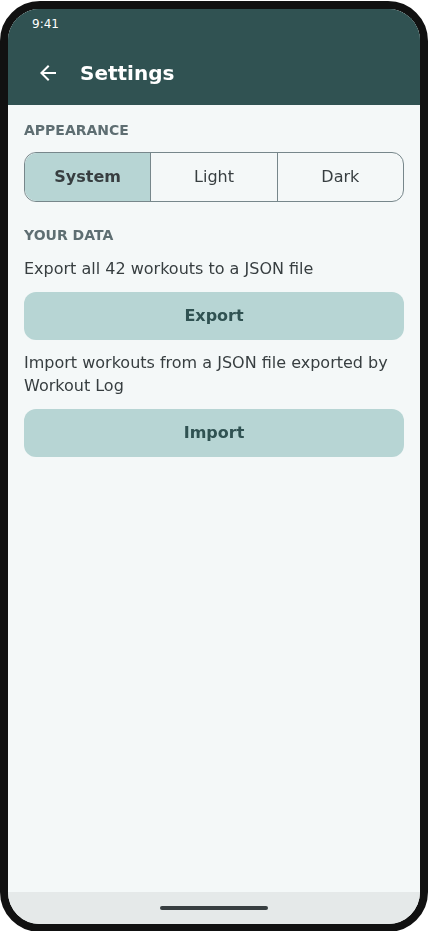
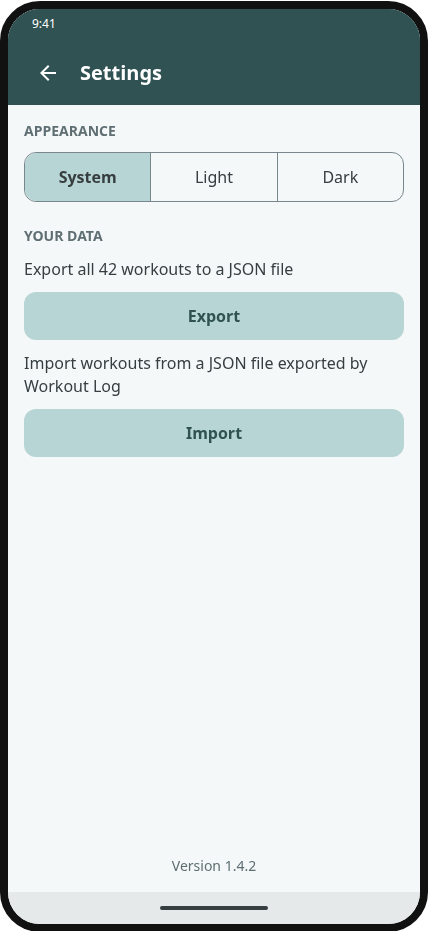
feat(settings): show the app version

diff --git a/src/WorkoutLog.UI/Screens/SettingsView.razor.css b/src/WorkoutLog.UI/Screens/SettingsView.razor.css
@@ -32,7 +32,15 @@
 }
 
 .body {
+    min-height: 100%;
     display: flex;
     flex-direction: column;
     gap: var(--space-6);
+}
+
+.version {
+    margin: auto 0 0;
+    color: var(--color-text-muted);
+    font-size: var(--font-size-sm);
+    text-align: center;
 }

diff --git a/tests/WorkoutLog.UI.Tests/Screens/SettingsPageTests.cs b/tests/WorkoutLog.UI.Tests/Screens/SettingsPageTests.cs
@@ -11,6 +11,7 @@ using WorkoutLog.UI.Logging;
 using WorkoutLog.UI.Models.Settings;
 using WorkoutLog.UI.Screens;
 using WorkoutLog.UI.Sharing;
+using WorkoutLog.UI.Versioning;
 
 namespace WorkoutLog.UI.Tests.Screens;
 
@@ -34,6 +35,7 @@ public class SettingsPageTests : ComponentTestBase
         Context.Services.AddSingleton<IExportService>(export);
         share = new FakeFileShare();
         Context.Services.AddSingleton<IFileShare>(share);
+        Context.Services.AddSingleton<IAppVersion>(new FakeAppVersion());
         logger = new FakeLogger<SettingsPage>();
         Context.Services.AddSingleton<ILogger<SettingsPage>>(logger);
         lifecycle = new AppLifecycle(new FakeLogger<AppLifecycle>());
@@ -45,6 +47,14 @@ public class SettingsPageTests : ComponentTestBase
         savedTheme = "system";
         Context.JSInterop.Setup<string>("workoutLogTheme.get", _ => true).SetResult(savedTheme);
         Context.JSInterop.Setup<bool>("workoutLogTheme.set", _ => true).SetResult(true);
+    }
+
+    [Test]
+    public void Version_ShowsTheInstalledVersion()
+    {
+        var cut = Context.Render<SettingsPage>();
+
+        Assert.That(cut.Find("[data-testid=app-version]").TextContent, Is.EqualTo("Version 2.3.4"));
     }
 
     [Test]
@@ -707,6 +717,11 @@ public class SettingsPageTests : ComponentTestBase
 
         /// <summary>Completes the latest export.</summary>
         public void CompleteExport(ExportResult result) => export.SetResult(result);
+    }
+
+    private sealed class FakeAppVersion : IAppVersion
+    {
+        public string Current => "2.3.4";
     }
 
     /// <summary>Records each share; each waits until the test completes or fails it.</summary>

diff --git a/src/WorkoutLog.App/MauiProgram.cs b/src/WorkoutLog.App/MauiProgram.cs
@@ -10,6 +10,7 @@ using WorkoutLog.App.Logging;
 using WorkoutLog.App.Navigation;
 using WorkoutLog.App.Sharing;
 using WorkoutLog.App.Timing;
+using WorkoutLog.App.Versioning;
 using WorkoutLog.Core;
 using WorkoutLog.Core.Logging;
 using WorkoutLog.Core.Services;
@@ -18,6 +19,7 @@ using WorkoutLog.UI.Haptics;
 using WorkoutLog.UI.Import;
 using WorkoutLog.UI.Lifecycle;
 using WorkoutLog.UI.Sharing;
+using WorkoutLog.UI.Versioning;
 
 namespace WorkoutLog.App;
 
@@ -34,6 +36,7 @@ public static class MauiProgram
         builder.Services.AddSingleton<IExportEnvironment, MauiExportEnvironment>();
         builder.Services.AddSingleton<IElapsedClock, AndroidElapsedClock>();
         builder.Services.AddSingleton<IFileShare, MauiFileShare>();
+        builder.Services.AddSingleton<IAppVersion, MauiAppVersion>();
         builder.Services.AddSingleton<IImportFilePicker, MauiImportFilePicker>();
         builder.Services.AddSingleton<IHaptics, AndroidHaptics>();
 

diff --git a/tests/WorkoutLog.UI.Tests/Screens/SettingsViewTests.cs b/tests/WorkoutLog.UI.Tests/Screens/SettingsViewTests.cs
@@ -21,6 +21,22 @@ public class SettingsViewTests : ComponentTestBase
     }
 
     [Test]
+    public void Version_WhenSet_ShowsIt()
+    {
+        var cut = Context.Render<SettingsView>(p => p.Add(x => x.Version, "1.4.2").Add(x => x.OnBack, () => { }));
+
+        Assert.That(cut.Find("[data-testid=app-version]").TextContent, Is.EqualTo("Version 1.4.2"));
+    }
+
+    [Test]
+    public void Version_WhenNull_ShowsNothing()
+    {
+        var cut = Render();
+
+        Assert.That(cut.FindAll("[data-testid=app-version]"), Is.Empty);
+    }
+
+    [Test]
     public void Theme_ShowsTheChoiceSelected()
     {
         var cut = Context.Render<SettingsView>(p => p.Add(x => x.Theme, ThemePreference.Dark).Add(x => x.OnBack, () => { }));

diff --git a/tests/WorkoutLog.E2E.Tests/Steps/SettingsSteps.cs b/tests/WorkoutLog.E2E.Tests/Steps/SettingsSteps.cs
@@ -49,6 +49,9 @@ public sealed partial class SettingsSteps(
     [Then(@"^the status bar icons are light$")]
     public void ThenTheStatusBarIconsAreLight() => web.Eventually(Native.StatusBarIcons, Is.EqualTo("light"), "status bar icons");
 
+    [Then(@"^Settings shows the app version$")]
+    public void ThenSettingsShowsTheAppVersion() => Assert.That(settings.Version(), Does.Match(@"^Version \d+(\.\d+)+"));
+
     [Then(@"^Settings says ""(.+)""$")]
     public void ThenSettingsSays(string text) => Assert.That(settings.ExportText(), Is.EqualTo(text));
 

diff --git a/tests/WorkoutLog.E2E.Tests/Screens/SettingsScreen.cs b/tests/WorkoutLog.E2E.Tests/Screens/SettingsScreen.cs
@@ -22,6 +22,13 @@ public sealed class SettingsScreen(WebView web)
         web.Eventually(() => web.Find(radio).Selected, Is.True, $"{theme} theme selected");
     }
 
+    /// <summary>The version line at the bottom, once Settings has opened.</summary>
+    public string Version()
+    {
+        web.WaitUntil(() => web.Exists("app-version"), "Settings didn't show the version");
+        return web.Text("app-version");
+    }
+
     public bool ExportEnabled() => web.Find("export").Enabled;
 
     public void Export() => web.Tap("export");

diff --git a/src/WorkoutLog.App/Versioning/MauiAppVersion.cs b/src/WorkoutLog.App/Versioning/MauiAppVersion.cs
@@ -1,0 +1,10 @@
+using WorkoutLog.UI.Versioning;
+
+namespace WorkoutLog.App.Versioning;
+
+/// <summary>Reads the version from MAUI <see cref="AppInfo"/>.</summary>
+internal sealed class MauiAppVersion : IAppVersion
+{
+    /// <inheritdoc />
+    public string Current => AppInfo.Current.VersionString;
+}

diff --git a/src/WorkoutLog.UI/Versioning/IAppVersion.cs b/src/WorkoutLog.UI/Versioning/IAppVersion.cs
@@ -1,0 +1,8 @@
+namespace WorkoutLog.UI.Versioning;
+
+/// <summary>The installed app's version. Implemented by the host.</summary>
+public interface IAppVersion
+{
+    /// <summary>The display version, such as "1.4.2". Dev builds show MAUI's default, "1.0".</summary>
+    string Current { get; }
+}
